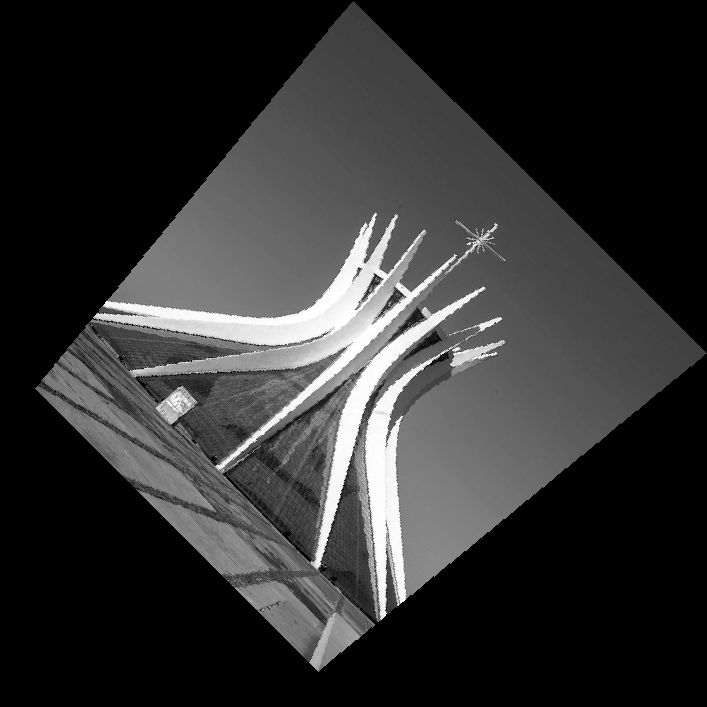
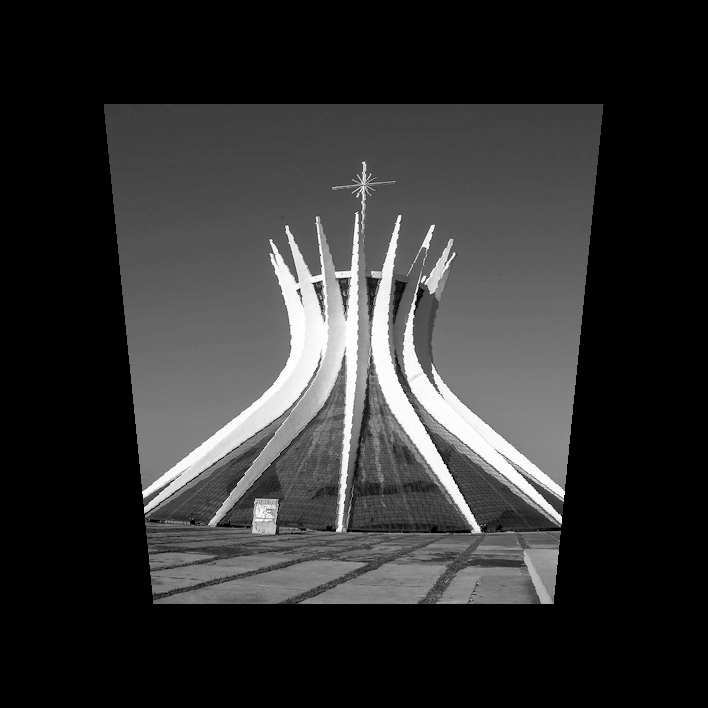
final

diff --git a/src/ev.py b/src/ev.py
@@ -28,11 +28,14 @@ def entopify(img, inverse=False, trapezium_rate = 0.2):
                 img2[i][j] = img[i][np.clip(np.int32((j - jl) * ratio), 0, img2.shape[1]-1)]
         else:
             for j in range(img2.shape[1]):
-                img2[i][j] = img[i][np.clip(np.int32(jl + j * ratio), 0, img2.shape[1] - 1)]
+                img2[i][j] = img[i][np.clip(np.int32(jl + j * ratio), 0, jr)]
     return img2
 
 def TA(A, B, C):
     return np.abs( (B[0] * A[1] - A[0] * B[1]) + (C[0] * B[1] - B[0] * C[1]) + (A[0] * C[1] - C[0] * A[1]) ) / 2
+
+def ib(A,B,C):
+    return A>=B and A<C
 
 def rotate(img, rot_matrix):
     # diag_size = math.ceil(math.sqrt(img.shape[0]**2 + img.shape[1]**2))
@@ -56,7 +59,7 @@ def rotate(img, rot_matrix):
 
     xlim, ylim = np.round(x_max-x_min).astype(np.int32), np.round(y_max-y_min).astype(np.int32)
 
-    r_img = np.zeros((ylim,xlim), dtype=np.uint8)
+    r_img = np.zeros((ylim+1,xlim+1), dtype=np.uint8)
     
     center = np.array([[xlim], [ylim]],dtype = np.double) / 2
 
@@ -68,7 +71,7 @@ def rotate(img, rot_matrix):
 
     ylim, xlim = r_img.shape[0], r_img.shape[1]
     rect_area = img.shape[0] * img.shape[1]
-
+    ylimorg, xlimorg = img.shape[0], img.shape[1]
     for i in range(ylim):
         for j in range(xlim):
             P = np.array([j,i], dtype=np.double)
@@ -76,8 +79,9 @@ def rotate(img, rot_matrix):
             if rect_area >= tr:
                 c_loc = np.matmul(inv, np.array([[j],[i]], dtype=np.double) - center) + disloc
                 c_loc = np.round(c_loc).astype(np.uint32)
-    
+
                 r_img[i][j] = img[np.clip(c_loc[1][0], 0, img.shape[0]-1)][np.clip(c_loc[0][0], 0, img.shape[1]-1)]
+    
     
     return r_img
 
@@ -90,17 +94,42 @@ r_rot = np.array([[math.cos(m4), -math.sin(m4)], [math.sin(m4), math.cos(m4)]])
 
 img = cv.imread(args.image,0).astype(np.uint8)
 
-r_img = rotate(entopify(img.copy()), r_rot)
 
-cv.imwrite(args.rpath.format(1), r_img)
+r1 = entopify(img.copy())
+
+
+r2 = rotate(r1.copy(), r_rot)
+
 
 # Inverse Operations
-r_img = rotate(r_img, l_rot)
-
+r3 = rotate(r2.copy(), l_rot)
 c1 = np.array([img.shape[0], img.shape[1]], dtype=np.int32) // 2
-c2 = np.array([r_img.shape[0], r_img.shape[1]], dtype=np.int32) // 2
-r_img = r_img[c2[0]-c1[0]:c1[0]+c2[0],c2[1]-c1[1]:c1[1]+c2[1]]
-r_img = entopify(r_img, True)
+c2 = np.array([r3.shape[0], r3.shape[1]], dtype=np.int32) // 2
+r3 = r3.copy()[c2[0]-c1[0]:c1[0]+c2[0],c2[1]-c1[1]:c1[1]+c2[1]]
+
+r4 = entopify(r3.copy(), True)
 
 
-cv.imwrite(args.rpath.format(2), r_img)
+# cv.imwrite(args.rpath.format(2), r_img)
+
+def sympad(img, y, x):
+    rimg = np.zeros((y,x))
+    yl, xl = (y - img.shape[0]) // 2, (x-img.shape[1]) // 2
+    rimg[yl:yl+img.shape[0],xl:xl+img.shape[1]] = img[:,:]
+    return rimg
+
+y = max(img.shape[0], r1.shape[0],r2.shape[0],r3.shape[0],r4.shape[0])
+x = max(img.shape[1], r1.shape[1],r2.shape[1],r3.shape[1],r4.shape[1])
+img = sympad(img, y, x)
+r1 = sympad(r1, y, x)
+r2 = sympad(r2, y, x)
+r3 = sympad(r3, y, x)
+r4 = sympad(r4, y, x)
+r5 = sympad(r4-img+128, y, x)
+
+cv.imwrite(args.rpath.format(0), img)
+cv.imwrite(args.rpath.format(1), r1)
+cv.imwrite(args.rpath.format(2), r2)
+cv.imwrite(args.rpath.format(3), r3)
+cv.imwrite(args.rpath.format(4), r4)
+cv.imwrite(args.rpath.format(5), r5)

diff --git a/concat2.py b/concat2.py
@@ -1,0 +1,47 @@
+import cv2
+import os
+
+def load_images_from_folder(folder_path):
+    images = []
+    for filename in sorted(os.listdir(folder_path)):
+        if filename.endswith(('.jpg', '.jpeg', '.png', '.bmp', '.gif')):
+            img = cv2.imread(os.path.join(folder_path, filename))
+            if img is not None:
+                images.append((filename, img))
+    return images
+
+def display_images_in_columns(images, columns=2):
+    if columns < 1:
+        columns = 1
+    row_count = len(images) // columns + (len(images) % columns > 0)
+    max_height = max(img.shape[0] for _, img in images)
+    result = None
+
+    for i in range(row_count):
+        row_images = images[i * columns:(i + 1) * columns]
+        row_result = None
+
+        for name, img in row_images:
+            img = cv2.resize(img, (img.shape[1] * max_height // img.shape[0], max_height))
+            if row_result is None:
+                row_result = img
+            else:
+                row_result = cv2.hconcat([row_result, img])
+
+        if result is None:
+            result = row_result
+        else:
+            result = cv2.vconcat([result, row_result])
+
+    cv2.imwrite('candy.png', result)
+    cv2.waitKey(0)
+    cv2.destroyAllWindows()
+
+if __name__ == "__main__":
+    folder_path = input("Enter the folder path: ")
+    images = load_images_from_folder(folder_path)
+
+    if not images:
+        print("No valid images found in the specified folder.")
+    else:
+        display_images_in_columns(images, columns=2)

diff --git a/gen_dataset.py b/gen_dataset.py
@@ -1,7 +1,7 @@
 import os
 import time
 
-imgs = [ 'catedral', 'Mountain']
+imgs = [ 'lion', 'candyr', 'catedral']
 # types = ['kmeans', 'dither']
 color_number = [[4,8,16, 256], [2, 4, 8, 16]]
 
@@ -17,4 +17,4 @@ for i in range(len(imgs)):
     now_num = time.time()
     print(f'img {imgs[i]} d+k {now_num-p_test} ')
         
-    exit()
+    # exit()
